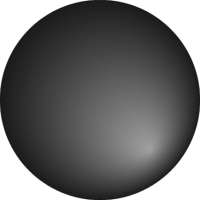
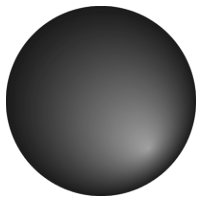
close #16 : higlight latest stone

Changed region(s): [[0.0, 0.0, 1.0, 1.0]]

diff --git a/lib/client/style/game.less b/lib/client/style/game.less
@@ -37,7 +37,6 @@
 
 }
 
-
 #game {
   position: absolute;
   width: 180vh;
@@ -189,6 +188,8 @@
 
           &.hoshi { background-image: url(/img/intersection-hoshi.png); }
 
+          overflow: hidden;
+
           .stone {
             width: 100%;
             height: 100%;
@@ -198,6 +199,14 @@
             &.put, .put:hover { opacity: 1; }
             &.black { background-image: url(/img/black-stone.png); }
             &.white { background-image: url(/img/white-stone.png); }
+
+          }
+
+          &.latest {
+
+            .stone.black { background-image: url(/img/black-stone-latest.png); }
+            .stone.white { background-image: url(/img/white-stone-latest.png); }
+            
 
           }
 

diff --git a/lib/client/ux/intersection.js b/lib/client/ux/intersection.js
@@ -17,7 +17,11 @@ var ux = IntersectionUX.prototype = new UX();
 var lastFocus = null;
 
 ux.putStone = function (evt) {
+  _.each(document.querySelectorAll('.intersection.latest'), function (el) {
+    el.classList.remove('latest');
+  });
   this.stone.classList.add('put');
+  this.el.classList.add('latest');
   this.stone.classList.add(evt.color);
 };
 
